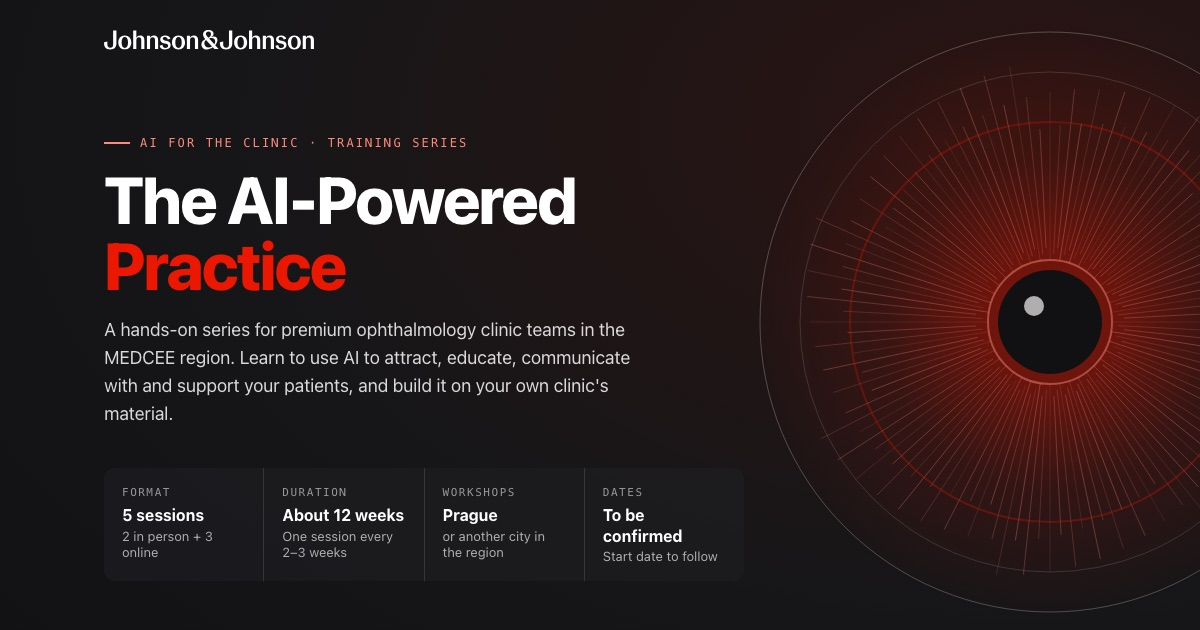
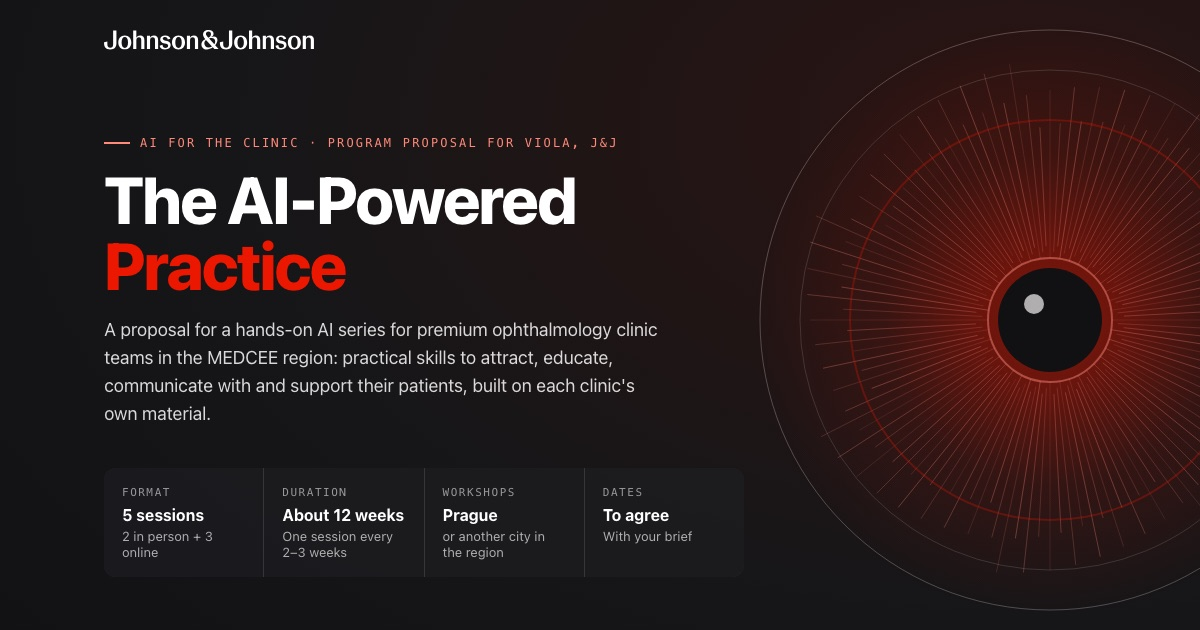
J&J: la página pasa a ser propuesta para Viola; facilitador en Europa y EE. UU.
Texto dirigido a J&J y no a los asistentes: "What we heard", tres
opciones de formato (tarifa aparte), las cinco preguntas para cerrar el
diseño como checklist y la llamada de 30 minutos como siguiente paso.

diff --git a/jnj/ai-powered-practice/index.html b/jnj/ai-powered-practice/index.html
@@ -3,7 +3,7 @@
 <head>
 <meta charset="UTF-8">
 <meta name="viewport" content="width=device-width, initial-scale=1.0">
-<title>The AI-Powered Practice · Johnson &amp; Johnson</title>
+<title>The AI-Powered Practice · Program proposal for Johnson &amp; Johnson</title>
 <meta name="description" content="AI for the Clinic: a hands-on training series for premium ophthalmology clinic teams in the MEDCEE region. Five connected sessions over about 12 weeks.">
 <meta name="theme-color" content="#EB1700">
 <meta property="og:type" content="website">
@@ -187,7 +187,7 @@ h2 { font-size: clamp(28px, 3.6vw, 38px); letter-spacing: -.02em; line-height: 1
 .person p { margin: 0; color: var(--ink-soft); }
 
 /* CTA + footer */
-.cta { margin-top: 72px; border-radius: 20px; padding: 44px; color: #fff; background: linear-gradient(135deg, var(--brand), var(--brand-dark)); }
+.cta { margin-top: 48px; border-radius: 20px; padding: 44px; color: #fff; background: linear-gradient(135deg, var(--brand), var(--brand-dark)); }
 .cta h2 { color: #fff; }
 .cta p { margin: 0; color: rgba(255,255,255,.9); font-size: 17px; max-width: 640px; }
 footer { border-top: 1px solid var(--border); margin-top: 72px; padding: 28px 0 40px; }
@@ -208,6 +208,21 @@ footer .container { display: flex; justify-content: space-between; align-items: 
 .foryou { display: none; font-size: 12px; font-weight: 700; padding: 3px 10px; border-radius: 999px; background: var(--ink); color: #fff; }
 .session.is-match .foryou { display: inline-block; }
 @media print { .paths { display: none; } }
+/* Options and checklist */
+.options { display: grid; grid-template-columns: 1.15fr 1fr 1fr; gap: 14px; }
+.option { border: 1px solid var(--border); border-radius: var(--radius); padding: 22px; display: flex; flex-direction: column; gap: 6px; }
+.option h3 { margin: 0; font-size: 19px; }
+.option p { margin: 0; color: var(--ink-soft); font-size: 15px; flex: 1; }
+.option__fee { font-family: var(--mono); font-size: 12px; letter-spacing: .08em; text-transform: uppercase; color: var(--ink-mute); margin-top: 8px; }
+.option--main { border: 2px solid var(--brand); background: var(--brand-tint); }
+.option__tag { align-self: flex-start; font-size: 12px; font-weight: 700; color: #fff; background: var(--brand); border-radius: 999px; padding: 2px 10px; }
+.sub { font-size: 20px; margin: 40px 0 12px; letter-spacing: -.01em; }
+.checks { list-style: none; margin: 0; padding: 0; display: grid; gap: 8px; }
+.checks label { display: flex; gap: 12px; align-items: center; padding: 12px 16px; border: 1px solid var(--border); border-radius: 10px; cursor: pointer; font-size: 15.5px; transition: background .15s; }
+.checks label:hover { background: var(--bg-soft); }
+.checks input { width: 18px; height: 18px; accent-color: var(--brand); flex: none; }
+.checks input:checked + * , .checks label:has(input:checked) { color: var(--ink-mute); text-decoration: line-through; }
+@media (max-width: 760px) { .options { grid-template-columns: 1fr; } }
 /* Print: everything open, no navigation */
 @media print {
   @page { size: A4; margin: 12mm 0; }
@@ -235,21 +250,21 @@ footer .container { display: flex; justify-content: space-between; align-items: 
 </head>
 <body>
 
-<div class="draft" id="draft">Draft · do not circulate</div>
+<div class="draft" id="draft">Program proposal for J&amp;J · draft for review</div>
 
 <header class="hero">
   <svg class="hero__iris" id="iris" viewBox="-320 -320 640 640" aria-hidden="true"></svg>
   <div class="container hero__inner">
     <svg class="hero__logo" role="img" aria-label="Johnson &amp; Johnson" fill="currentColor" xmlns="http://www.w3.org/2000/svg" viewBox="0 0 576.77 53.67"><path d="m57.04,49.2c-5.65,0-8.8-5.35-8.8-15.03s3.15-15.03,8.8-15.03,8.8,5.28,8.8,15.03-3.15,15.03-8.8,15.03m0-34.09c-11.51,0-17.89,8.58-17.89,19.06s6.38,19.06,17.89,19.06,17.89-8.58,17.89-19.06-6.38-19.06-17.89-19.06m79.99,0c-5.43,0-8.43,2.35-10.12,5.35h-.44v-4.62h-8.65v36.66h8.65v-23.68c0-5.42,2.79-8.58,7.26-8.58s6.23,2.86,6.23,7.19v25.07h8.65v-25.15c0-7.55-3.96-12.24-11.58-12.24m31.23,0c-7.99,0-14,3.37-14,10.56,0,6.09,4.18,9.39,8.87,10.56l7.33,1.83c3.89.95,5.65,2.35,5.65,5.43,0,3.74-2.64,5.87-7.26,5.87-4.99,0-7.55-2.42-8.36-8.5l-7.77,2.2c.44,6.31,6.31,10.19,15.18,10.19,9.9,0,15.25-4.62,15.25-11.95,0-6.89-4.77-9.75-9.75-11l-7.04-1.76c-3.52-.88-5.06-2.49-5.06-4.84,0-2.93,2.49-4.69,6.23-4.69,4.4,0,7.11,2.42,7.48,7.04l7.33-2.2c-.88-5.13-5.94-8.72-14.08-8.72m36.36,34.09c-5.65,0-8.8-5.35-8.8-15.03s3.15-15.03,8.8-15.03,8.8,5.28,8.8,15.03-3.15,15.03-8.8,15.03m0-34.09c-11.51,0-17.89,8.58-17.89,19.06s6.38,19.06,17.89,19.06,17.89-8.58,17.89-19.06-6.38-19.06-17.89-19.06m42.23,0c-5.43,0-8.43,2.35-10.12,5.35h-.44v-4.62h-8.65v36.66h8.65v-23.68c0-5.42,2.79-8.58,7.26-8.58s6.23,2.86,6.23,7.19v25.07h8.65v-25.15c0-7.55-3.96-12.24-11.58-12.24m128.52,34.09c-5.65,0-8.8-5.35-8.8-15.03s3.15-15.03,8.8-15.03,8.8,5.28,8.8,15.03-3.15,15.03-8.8,15.03m0-34.09c-11.51,0-17.89,8.58-17.89,19.06s6.38,19.06,17.89,19.06,17.89-8.58,17.89-19.06-6.38-19.06-17.89-19.06m79.99,0c-5.43,0-8.43,2.35-10.12,5.35h-.44v-4.62h-8.65v36.66h8.65v-23.68c0-5.42,2.79-8.58,7.26-8.58s6.23,2.86,6.23,7.19v25.07h8.65v-25.15c0-7.55-3.96-12.24-11.58-12.24m31.23,0c-7.99,0-14,3.37-14,10.56,0,6.09,4.18,9.39,8.87,10.56l7.33,1.83c3.89.95,5.65,2.35,5.65,5.43,0,3.74-2.64,5.87-7.26,5.87-4.99,0-7.55-2.42-8.36-8.5l-7.77,2.2c.44,6.31,6.31,10.19,15.18,10.19,9.9,0,15.25-4.62,15.25-11.95,0-6.89-4.77-9.75-9.75-11l-7.04-1.76c-3.52-.88-5.06-2.49-5.06-4.84,0-2.93,2.49-4.69,6.23-4.69,4.4,0,7.11,2.42,7.48,7.04l7.33-2.2c-.88-5.13-5.94-8.72-14.08-8.72m36.36,34.09c-5.65,0-8.8-5.35-8.8-15.03s3.15-15.03,8.8-15.03,8.8,5.28,8.8,15.03-3.15,15.03-8.8,15.03m0-34.09c-11.51,0-17.89,8.58-17.89,19.06s6.38,19.06,17.89,19.06,17.89-8.58,17.89-19.06-6.38-19.06-17.89-19.06m42.23,0c-5.43,0-8.43,2.35-10.12,5.35h-.44v-4.62h-8.65v36.66h8.65v-23.68c0-5.42,2.79-8.58,7.26-8.58s6.23,2.86,6.23,7.19v25.07h8.65v-25.15c0-7.55-3.96-12.24-11.58-12.24M34.02,1.17h-9.09v37.9c0,6.16-2.35,9.82-7.92,9.82s-7.92-3.89-7.92-10.56v-7.04l-9.09,2.27v3.15c0,9.6,4.77,16.94,17.01,16.94s17.01-7.33,17.01-16.94V1.17m54.69,0h-8.65v51.32h8.65v-23.68c0-5.42,2.79-8.58,7.26-8.58s6.23,2.86,6.23,7.19v25.07h8.65v-25.15c0-7.55-3.96-12.24-11.58-12.24-5.43,0-8.43,2.35-10.12,5.35h-.44V1.17m263.64,0h-9.09v37.9c0,6.16-2.35,9.82-7.92,9.82s-7.92-3.89-7.92-10.56v-7.04l-9.09,2.27v3.15c0,9.6,4.77,16.94,17.01,16.94s17.01-7.33,17.01-16.94V1.17m54.69,0h-8.65v51.32h8.65v-23.68c0-5.42,2.79-8.58,7.26-8.58s6.23,2.86,6.23,7.19v25.07h8.65v-25.15c0-7.55-3.96-12.24-11.58-12.24-5.43,0-8.43,2.35-10.12,5.35h-.44V1.17m-120.09,47.14c-7.04,0-11.36-5.72-11.36-11.8,0-3.81,1.69-7.33,4.47-9.31l16.57,18.11c-3.08,1.83-6.53,3.01-9.68,3.01m16.13-9.02l-14.37-15.84c2.57-1.03,5.06-1.39,7.11-1.39,5.94,0,9.6,3.45,9.6,9.39,0,2.64-.73,5.35-2.35,7.84m-16.35-17.96l-3.15-3.52c-2.79-3.08-3.59-4.99-3.59-7.26,0-4.25,2.71-6.67,6.96-6.67s6.89,2.49,6.89,7.04c0,4.18-2.05,8.14-7.11,10.41m.44-21.33c-10.12,0-15.1,5.65-15.1,12.68,0,3.81,1.61,7.63,5.87,12.24l.07.15c-7.18,3.45-10.48,9.02-10.48,14.74,0,7.55,5.79,13.86,14.74,13.86,5.13,0,11.14-2.13,16.57-5.94l4.4,4.77h11.51v-.37l-9.38-10.34c3.96-4.69,6.23-9.82,6.23-14.3,0-5.57-3.74-9.31-9.6-9.31-3.08,0-6.53.88-8.8,1.76l-.15-.29c5.57-3.01,7.92-5.79,7.92-9.68,0-5.57-4.99-9.97-13.78-9.97"/></svg>
     <div class="hero__body">
-      <p class="eyebrow">AI for the Clinic · Training series</p>
+      <p class="eyebrow">AI for the Clinic · Program proposal for Viola, J&amp;J</p>
       <h1>The AI&#8209;Powered <span>Practice</span></h1>
-      <p class="hero__lead">A hands-on series for premium ophthalmology clinic teams in the MEDCEE region. Learn to use AI to attract, educate, communicate with and support your patients, and build it on your own clinic's material.</p>
+      <p class="hero__lead">A proposal for a hands-on AI series for premium ophthalmology clinic teams in the MEDCEE region: practical skills to attract, educate, communicate with and support their patients, built on each clinic's own material.</p>
       <dl class="facts">
         <div class="fact"><dt>Format</dt><dd>5 sessions<small>2 in person + 3 online</small></dd></div>
         <div class="fact"><dt>Duration</dt><dd>About 12 weeks<small>One session every 2–3 weeks</small></dd></div>
         <div class="fact"><dt>Workshops</dt><dd>Prague<small>or another city in the region</small></dd></div>
-        <div class="fact"><dt>Dates</dt><dd id="dates">To be confirmed<small>Start date to follow</small></dd></div>
+        <div class="fact"><dt>Dates</dt><dd id="dates">To agree<small>With your brief</small></dd></div>
       </dl>
     </div>
   </div>
@@ -263,23 +278,24 @@ footer .container { display: flex; justify-content: space-between; align-items: 
     <a href="#cases">Real cases</a>
     <a href="#logistics">Logistics</a>
     <a href="#facilitator">Facilitator</a>
+    <a href="#next">Next steps</a>
   </div>
 </nav>
 
 <main class="container">
 
   <section id="why">
-    <p class="eyebrow">Why this program</p>
+    <p class="eyebrow">What we heard</p>
     <h2>Practical AI to run the clinic as a business</h2>
-    <p class="section-lead">Premium clinics compete on how they attract, inform and look after their patients. The series builds the skills for that on three pillars.</p>
+    <p class="section-lead">Premium ophthalmology clinics in the MEDCEE region need practical AI skills to attract patients, communicate with them, educate them and support them. The program serves that need with three pillars, and its design follows four rules from our conversation.</p>
     <div class="pillars">
       <div class="pillar"><span class="pillar__n">01</span><h3>Tools for content</h3><p>Create patient education and marketing content faster and at a higher standard.</p></div>
       <div class="pillar"><span class="pillar__n">02</span><h3>Tools for patient support</h3><p>Improve interaction, engagement and communication along the whole patient journey.</p></div>
-      <div class="pillar"><span class="pillar__n">03</span><h3>Best practices</h3><p>Real examples from other clinics and healthcare teams: a reality you can copy.</p></div>
+      <div class="pillar"><span class="pillar__n">03</span><h3>Best practices</h3><p>Real examples from other clinics and healthcare teams: a reality attendees can copy.</p></div>
     </div>
     <div class="rules">
       <div class="rule"><svg viewBox="0 0 24 24" fill="none" stroke="currentColor" stroke-width="2" stroke-linecap="round" stroke-linejoin="round"><path d="M21 12a9 9 0 1 1-3-6.7"/><path d="M21 4v5h-5"/></svg><h4>A series, not an event</h4><p>Skills need practice and repetition, so the program runs over several weeks.</p></div>
-      <div class="rule"><svg viewBox="0 0 24 24" fill="none" stroke="currentColor" stroke-width="2" stroke-linecap="round" stroke-linejoin="round"><rect x="3" y="4" width="18" height="12" rx="2"/><path d="M2 20h20"/></svg><h4>Hands-on every time</h4><p>Bring a laptop and build your own examples in every session.</p></div>
+      <div class="rule"><svg viewBox="0 0 24 24" fill="none" stroke="currentColor" stroke-width="2" stroke-linecap="round" stroke-linejoin="round"><rect x="3" y="4" width="18" height="12" rx="2"/><path d="M2 20h20"/></svg><h4>Hands-on every time</h4><p>Attendees bring a laptop and build their own examples in every session.</p></div>
       <div class="rule"><svg viewBox="0 0 24 24" fill="none" stroke="currentColor" stroke-width="2" stroke-linecap="round" stroke-linejoin="round"><circle cx="8" cy="8" r="3"/><path d="M2 20c0-3 3-5 6-5s6 2 6 5"/><rect x="14" y="4" width="8" height="6" rx="1"/></svg><h4>Blended</h4><p>In-person workshops for the practical work, short online sessions in between.</p></div>
       <div class="rule"><svg viewBox="0 0 24 24" fill="none" stroke="currentColor" stroke-width="2" stroke-linecap="round" stroke-linejoin="round"><circle cx="9" cy="7" r="3"/><circle cx="17" cy="9" r="2.5"/><path d="M3 20c0-3.3 2.7-6 6-6s6 2.7 6 6"/><path d="M15 14.5c3 0 6 1.8 6 5"/></svg><h4>For the whole team</h4><p>Doctors, managers, nurses, optometrists, front desk and marketing.</p></div>
     </div>
@@ -297,7 +313,7 @@ footer .container { display: flex; justify-content: space-between; align-items: 
       <button class="chip" type="button" data-role="manager" aria-pressed="false">Managers and owners</button>
       <button class="chip" type="button" data-role="care" aria-pressed="false">Nurses and optometrists</button>
       <button class="chip" type="button" data-role="front" aria-pressed="false">Front desk and marketing</button>
-      <p class="paths__out" id="pathOut" aria-live="polite">Every session is open to the whole team. Pick your role to see where you will get the most.</p>
+      <p class="paths__out" id="pathOut" aria-live="polite">Every session is open to the whole team. Pick a role to see which sessions matter most to it.</p>
     </div>
 
     <div class="map" aria-label="Series map">
@@ -335,22 +351,22 @@ footer .container { display: flex; justify-content: space-between; align-items: 
 
   <section id="cases">
     <p class="eyebrow">Best practices and real cases</p>
-    <h2>See it work for someone like you</h2>
+    <h2>People adopt what they see working</h2>
     <p class="section-lead">Every session includes at least one real case from clinics, hospital teams and medical societies, inside and outside ophthalmology. Each case follows the same short format.</p>
     <div class="cases">
       <div class="case"><span class="case__step">Before</span><h3>The situation</h3><p>The task, who did it and how long it took.</p></div>
       <div class="case"><span class="case__step">Change</span><h3>What the team changed</h3><p>The tool and the exact way they use it.</p></div>
       <div class="case"><span class="case__step">After</span><h3>The result</h3><p>What improved, and what they would do differently.</p></div>
     </div>
-    <p class="note">From session 3, the best assignments from the group become cases too. By session 5 you have examples from your own region.</p>
+    <p class="note">From session 3, the best assignments from the group become cases too. By session 5 the group has its own examples from its own region.</p>
   </section>
 
   <section id="logistics">
     <p class="eyebrow">Format and logistics</p>
     <h2>How it runs</h2>
-    <p class="section-lead">Everything you need to know before the first session.</p>
+    <p class="section-lead">How the series runs in practice. Everything here can be adjusted to the wider program.</p>
     <div class="logi">
-      <div><h3>Language</h3><p>English. You work in your own language during the exercises: the tools handle all of them.</p></div>
+      <div><h3>Language</h3><p>English. Attendees work in their own language during the exercises: the tools handle all of them.</p></div>
       <div><h3>Location</h3><p>In-person workshops in Prague or another city of the region, wherever suits the group best.</p></div>
       <div><h3>Rhythm</h3><p>One session every two to three weeks. The full series takes about 12 weeks.</p></div>
       <div><h3>Tools</h3><p>General AI assistants (such as ChatGPT, Claude, Copilot or Gemini) and a small set of tools for documents, visuals and video. Free versions are enough for most exercises.</p></div>
@@ -358,9 +374,9 @@ footer .container { display: flex; justify-content: space-between; align-items: 
       <div><h3>Patient data</h3><p>No exercise uses identifiable patient data.</p></div>
     </div>
     <div class="bring">
-      <div><h3>Bring your laptop</h3><p>One per attendee, with internet access. And the charger.</p></div>
-      <div><h3>No experience needed</h3><p>No coding, no prior use of AI. We start from the basics.</p></div>
-      <div><h3>Bring your material</h3><p>A procedure leaflet, a frequent question, a message you send every week: we use it as the example.</p></div>
+      <div><h3>Equipment</h3><p>One laptop per attendee, with internet access. A room with tables for group work and a projector.</p></div>
+      <div><h3>No experience needed</h3><p>No coding, no prior use of AI. Each session starts from the basics it needs.</p></div>
+      <div><h3>Real clinic material</h3><p>Attendees work on their own leaflets, frequent questions and weekly messages, never on identifiable patient data.</p></div>
     </div>
   </section>
 
@@ -372,12 +388,34 @@ footer .container { display: flex; justify-content: space-between; align-items: 
       <div>
         <h3>Javier Fuentes</h3>
         <p class="who">Facilitator · N Company</p>
-        <p>Trainer in applied AI for healthcare and science. He runs hands-on workshops for medical and clinical teams across Europe, with attendees at the keyboard from the first minute.</p>
+        <p>Trainer in applied AI for healthcare and science. He runs hands-on workshops for medical and clinical teams across Europe and the US, with attendees at the keyboard from the first minute.</p>
       </div>
     </div>
+  </section>
+
+  <section id="next">
+    <p class="eyebrow">Investment and next steps</p>
+    <h2>Three ways to run it</h2>
+    <p class="section-lead">The sessions are modular, so the program can be booked in full, in a compact form or one module at a time.</p>
+    <div class="options">
+      <div class="option option--main"><span class="option__tag">Recommended</span><h3>Full series</h3><p>5 sessions, review of assignments and all materials.</p><span class="option__fee">Fee shared separately</span></div>
+      <div class="option"><h3>Compact</h3><p>1 full in-person day + 3 online sessions.</p><span class="option__fee">Fee shared separately</span></div>
+      <div class="option"><h3>Single module</h3><p>Any one session, inside the wider program.</p><span class="option__fee">Fee shared separately</span></div>
+    </div>
+    <p class="note">Travel and accommodation for the in-person workshops are not included.</p>
+
+    <h3 class="sub">To close the design we need five answers</h3>
+    <ul class="checks" id="checks">
+      <li><label><input type="checkbox"> Expected number of attendees and clinics.</label></li>
+      <li><label><input type="checkbox"> Countries and languages in the group.</label></li>
+      <li><label><input type="checkbox"> Preferred start date and city for the first workshop.</label></li>
+      <li><label><input type="checkbox"> The other topics in the wider program, so the sessions connect with them.</label></li>
+      <li><label><input type="checkbox"> Any rule on the tools attendees may use.</label></li>
+    </ul>
+
     <div class="cta">
-      <h2>Come as a team</h2>
-      <p>Choose two or three people from your clinic and one patient-facing process you want to improve. You will leave the series with a written AI plan and three working use cases.</p>
+      <h2>Next step</h2>
+      <p>A 30-minute call to review this plan together with your brief. Each clinic will leave the series with a written AI plan and three working use cases.</p>
     </div>
   </section>
 
@@ -393,7 +431,7 @@ footer .container { display: flex; justify-content: space-between; align-items: 
 <script>
 /* ── PROGRAM DATA: edit here ── */
 const PROGRAM = {
-  draft: true,              // shows the "Draft · do not circulate" ribbon
+  draft: true,              // shows the "proposal · draft for review" ribbon
   refCode: "",              // material code for the footer, if J&J provides one
   dates: null,              // e.g. "From 3 March 2027" once confirmed
   roles: {
@@ -405,13 +443,13 @@ const PROGRAM = {
   sessions: [
     { n: 1, roles: ["doctor","manager","care","front"], week: 1, format: "online", duration: "75 min", pillar: "Foundations",
       title: "Kickoff: what AI changes for a clinic", short: "Kickoff",
-      goal: "See what the tools do today on real clinic situations, and leave with your tools ready.",
+      goal: "Attendees see what the tools do today on real clinic situations, and leave with their tools ready.",
       points: [
         "Live demonstrations: a patient question answered, a procedure explained in plain language, a week of messages drafted.",
         "Setup of the tools used in the program.",
         "Each clinic chooses one patient-facing process to improve during the series."
       ],
-      assignment: "Try the tools on the process your clinic chose and bring one result to the first workshop." },
+      assignment: "Try the tools on the process the clinic chose and bring one result to the first workshop." },
     { n: 2, roles: ["doctor","care","front"], week: 4, format: "inperson", duration: "3 hours", pillar: "Tools for content",
       title: "Content that educates and attracts patients", short: "Content",
       goal: "Every attendee produces a content pack for their own clinic.",
@@ -425,7 +463,7 @@ const PROGRAM = {
       assignment: "Finish one piece of the content pack and test it with a colleague or a patient-facing team member." },
     { n: 3, roles: ["manager","care","front"], week: 7, format: "online", duration: "90 min", pillar: "Tools for patient support",
       title: "Patient communication along the journey", short: "Patient journey",
-      goal: "Map your patient journey and build the messages for each step.",
+      goal: "Attendees map their patient journey and build the messages for each step.",
       points: [
         "From first contact to follow-up: where patients wait, doubt or drop out.",
         "Message templates: first reply, appointment reminders, preparation for the consultation, follow-up after surgery.",
@@ -435,14 +473,14 @@ const PROGRAM = {
       assignment: "Put two of the new message templates to work in the clinic and note what changed." },
     { n: 4, roles: ["doctor","manager"], week: 10, format: "online", duration: "90 min", pillar: "Productivity and education",
       title: "A more productive clinic team", short: "Productivity",
-      goal: "Remove routine work from your week, so you can focus on the patient and on your profession.",
+      goal: "Attendees remove routine work from their week, so they can focus on the patient and on their profession.",
       points: [
         "Email, meeting notes, protocols and internal documents.",
         "Staff onboarding and training material built from existing documents.",
         "For doctors: summaries of new literature, preparation of talks and courses.",
         "Clinic numbers in plain language: analyse a spreadsheet of consultations and conversions without formulas."
       ],
-      assignment: "Choose the three use cases your clinic will complete at the final workshop." },
+      assignment: "Choose the three use cases the clinic will complete at the final workshop." },
     { n: 5, roles: ["doctor","manager","care","front"], week: 12, format: "inperson", duration: "3 hours", pillar: "Best practices",
       title: "Your clinic's AI playbook", short: "Playbook",
       goal: "Each clinic leaves with a written plan and three working use cases.",
@@ -490,13 +528,13 @@ const PROGRAM = {
         <button class="session__head" type="button" aria-expanded="false" aria-controls="s${s.n}b">
           <span class="session__num">${s.n}</span>
           <span><span class="session__title">${esc(s.title)}</span>
-            <span class="session__meta"><span class="tag ${s.format === "inperson" ? "tag--ip" : "tag--on"}">${fmt}</span><span class="tag">${esc(s.duration)}</span><span class="tag">${esc(s.pillar)}</span><span class="foryou">For you</span></span></span>
+            <span class="session__meta"><span class="tag ${s.format === "inperson" ? "tag--ip" : "tag--on"}">${fmt}</span><span class="tag">${esc(s.duration)}</span><span class="tag">${esc(s.pillar)}</span><span class="foryou">Key session</span></span></span>
           <span class="session__chev">${chev}</span>
         </button>
         <div class="session__body" id="s${s.n}b" hidden>
           <p class="session__goal">${esc(s.goal)}</p>
           <ul>${s.points.map(p => `<li>${esc(p)}</li>`).join("")}</ul>
-          ${s.assignment ? `<div class="assign">${clip}<span><b>Before the next session:</b> ${esc(s.assignment)}</span></div>` : ""}
+          ${s.assignment ? `<div class="assign">${clip}<span><b>Assignment before the next session:</b> ${esc(s.assignment)}</span></div>` : ""}
         </div>
       </article>`);
   });
@@ -527,12 +565,17 @@ const PROGRAM = {
       track.querySelector(`[data-target="s${s.n}"]`).classList.toggle("is-dim", dim);
     });
     const out = $("#pathOut");
-    if (role === "all") out.textContent = "Every session is open to the whole team. Pick your role to see where you will get the most.";
+    if (role === "all") out.textContent = "Every session is open to the whole team. Pick a role to see which sessions matter most to it.";
     else {
       const r = PROGRAM.roles[role], ns = PROGRAM.sessions.filter(s => s.roles.includes(role)).map(s => s.n);
       out.innerHTML = `<b>For ${esc(r.label)}: sessions ${ns.slice(0, -1).join(", ")} and ${ns.slice(-1)}.</b> ${esc(r.takeaway)}`;
     }
   });
+
+  /* Open questions: remember ticks in this browser */
+  const boxes = [...document.querySelectorAll("#checks input")];
+  try { const saved = JSON.parse(localStorage.getItem("jnj-checks") || "[]"); boxes.forEach((b, i) => b.checked = !!saved[i]); } catch (e) {}
+  document.getElementById("checks").addEventListener("change", () => { try { localStorage.setItem("jnj-checks", JSON.stringify(boxes.map(b => b.checked))); } catch (e) {} });
 
   /* Active section in nav */
   const links = [...document.querySelectorAll(".nav a")];

diff --git a/README.md b/README.md
@@ -23,7 +23,7 @@ Sesiones:
 | `roche/zaragoza-2026-10/` | Taller de IA · Roche · 28 oct 2026 · H. C. U. Lozano Blesa, Zaragoza · 16:15–19:30 | publicada (código de material pendiente) |
 | `roche/barcelona-constanza-2026-11/` | Taller de IA · Roche · 5 nov 2026 · NH Barcelona Constanza · 16:30–19:30 · con bloque legal | publicada (código de material pendiente) |
 | `novartis/taller-generico/` | Taller genérico de IA · Novartis · de la búsqueda al borrador de publicación o póster | borrador (fecha y lugar por confirmar) |
-| `jnj/ai-powered-practice/` | AI for the Clinic · J&J · serie de 5 sesiones (2 presenciales + 3 online, ~12 semanas) para clínicas de oftalmología MEDCEE · en inglés · selector de ruta por rol | borrador (fechas por confirmar) |
+| `jnj/ai-powered-practice/` | AI for the Clinic · propuesta para Viola (J&J), aún no para asistentes · serie de 5 sesiones (2 presenciales + 3 online, ~12 semanas) para clínicas de oftalmología MEDCEE · en inglés · selector de ruta por rol | borrador (fechas por confirmar) |
 
 URL una vez publicado: `https://jfuentesibanez.github.io/programas-ia/<cliente>/<sesion>/`
 
